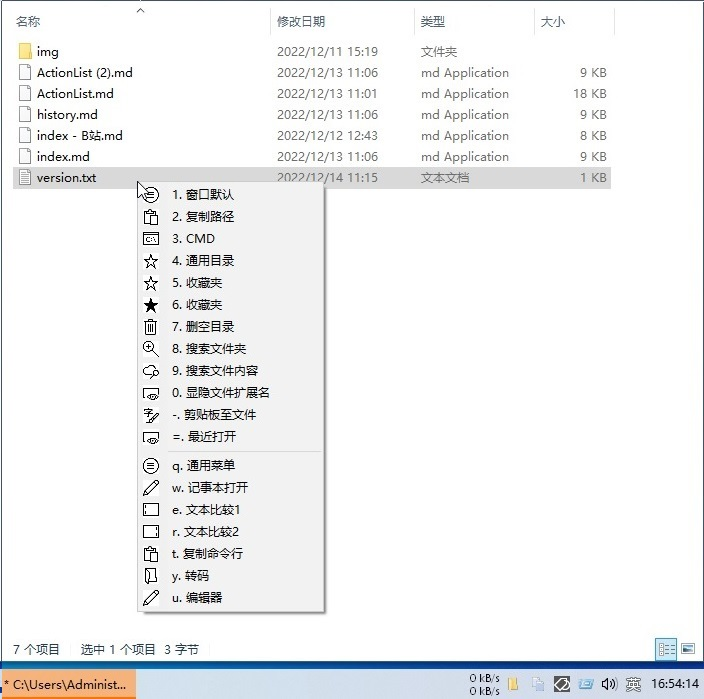
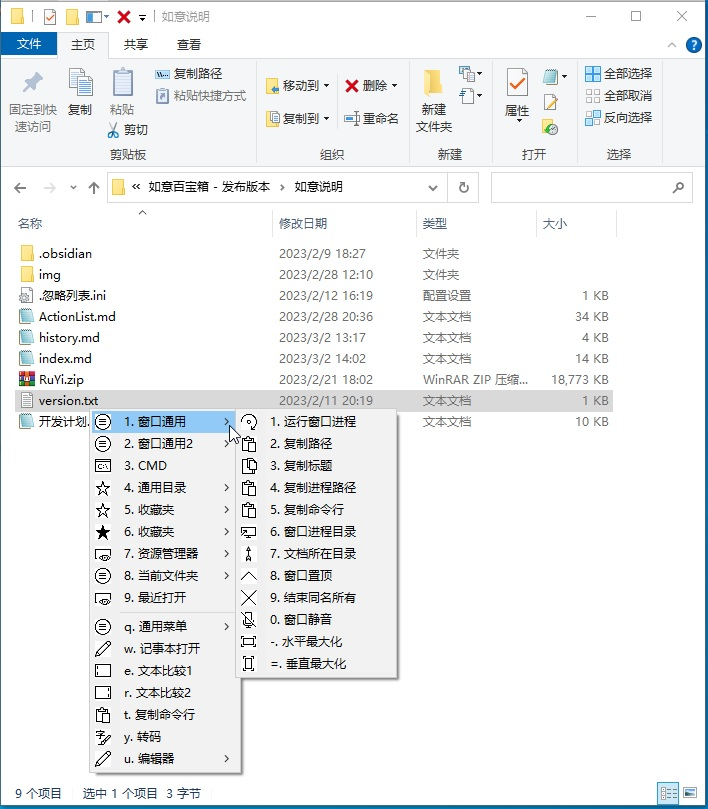
更新如意文档

Changed region(s): [[0.0, 0.0, 1.0, 1.0], [0.75, 0.0, 0.9062, 0.03]]

diff --git a/RuYi-Ahk/index.md b/RuYi-Ahk/index.md
@@ -1,4 +1,4 @@
----
+---
 layout: default
 ---
 
@@ -18,47 +18,47 @@ layout: default
 
 ### [](#header-3)功能介绍
 如意百宝箱受到类似软件 Quicker, Ahk 的 Windy 和 Candy 脚本的影响, 是一款由 AutoHotkey 脚本语言编写的快速启动软件. 打开 "如一.exe" 即启动了程序, 然后在不同的窗口按下鼠标中键即可显示定制的动作面板, 也可以使用鼠标手势 "上右" 来显示主面板. 欢迎大家试用, 非常渴望倾听您的声音。欢迎您的任何意见、建议、疑问、吐槽，或者鼓励。  
-  
-- <span id="hotkey">**快捷键**</span>
-  - Mbutton 默认的快捷键是鼠标中键, 可以右键托盘菜单的热键管理菜单自定义为其他按键. 按下后显示一个动作主面板, 主面板由上面的 12 个按钮(针对当前窗口)和下面的 12 个按钮(针对选中的文字, 或文件, 由 Ctrl+C 获取) 组成, 其中每个按钮执行一个指定的动作.  
-  - 鼠标手势 默认的鼠标手势"上右"来显示主面板, 可以在配置文件 "如一.ini" 中修改为其他.  
-    - 下图是主面板图片  
-    ![Image text](../img/主面板.jpg)  
 
-  - Ctrl + 1, 将面板模式转换为菜单模式, 按下后显示为菜单, 这在针对当前窗口操作时容易获取到当前窗口.  可以右键托盘菜单的热键管理菜单自定义为其他按键.  
-  ![Image text](../img/菜单模式.jpg)
+#### <a id="hotkey">快捷键</a>
+- Mbutton 默认的快捷键是鼠标中键, 可以右键托盘菜单的热键管理菜单自定义为其他按键. 按下后显示一个动作主面板, 主面板由上面的 12 个按钮(针对当前窗口)和下面的 12 个按钮(针对选中的文字, 或文件, 由 Ctrl+C 获取) 组成, 其中每个按钮执行一个指定的动作.  
+- 鼠标手势 默认的鼠标手势"上右"来显示主面板, 可以在配置文件 "如一.ini" 中修改为其他.  
+  - 下图是主面板图片  
+  ![Image text](img/主面板.jpg)  
 
-  - CapLocks 热键为不可更改的固定热键. 按下后将面板界面转为纯按键模式, 工具提示中的每个按键(0-9,q-])执行一个动作.  
-  ![Image text](../img/按键模式.jpg)  
+- Ctrl + 1, 将面板模式转换为菜单模式, 按下后显示为菜单, 这在针对当前窗口操作时容易获取到当前窗口.  可以右键托盘菜单的热键管理菜单自定义为其他按键.  
+![Image text](img/菜单模式.jpg)
 
-- <span id="Board"><b>面板</b></span>
+- CapLocks 热键为不可更改的固定热键. 按下后将面板界面转为纯按键模式, 工具提示中的每个按键(0-9,q-])执行一个动作.  
+![Image text](img/按键模式.jpg)  
+
+#### <span id="Board">面板</span>  
   - 面板的设置保存在 "配置文件/面板列表.ini" 文件中. 面板分为三种类型: 窗口进程名和Class(如资源管理器的 [explorer] [CabinetWClass], [Progman]), 文件扩展名后缀(如 txt, 短文本, 文件夹)和自定义名称. 前两种会根据优先级自动显示在主面板界面(按下热键后根据窗口类名和选中内容自动匹配), 后者多用于子面板(由主面板上的按钮来启动).  
-  .1 主面板上部面板顺序(优先级): 进程名 > 窗口 Class > 窗口默认  
-  .2 主面板下部面板顺序: 选中文件扩展名 > 文件默认 > 无选中  
-  .3 选中文件扩展名包含的种类: 盘符, 文件夹, 多文件, 选中文件扩展名(如 txt), 短文本, 长文本
+    .1 主面板上部面板顺序(优先级): 进程名 > 窗口 Class > 窗口默认  
+    .2 主面板下部面板顺序: 选中文件扩展名 > 文件默认 > 无选中  
+    .3 选中文件扩展名包含的种类: 盘符, 文件夹, 多文件, 选中文件扩展名(如 txt), 短文本, 长文本
   - 下图为面板中的按钮编辑菜单, 可以左右移动位置和删除.  
-  ![Image text](../img/面板按钮编辑.jpg)  
+    ![Image text](img/面板按钮编辑.jpg)  
 
   - 下图为面板中的按钮编辑界面, 指定按钮的要执行动作的编号.  
-  ![Image text](../img/按钮编辑.jpg)  
+    ![Image text](img/按钮编辑.jpg)  
 
-- **<span id="Action">动作</span>**  
+#### <a  id="Action">动作</a>  
   - 动作的的设置保存在 "配置文件/动作列表.ini" 文件中. 动作有以下类别: 运行(Run), 面板(Gui), 菜单(Menu), 发送按键(Key), 内置命令和函数(Cando 和 CanFunc) 等. 面板上的按钮对应一个动作, 点击面板上的按钮就会执行相应的动作.  
      - 运行: 运行程序, 打开文件(文件夹, 网址). 如打开C盘写为 "Run&#124;C:", 打开记事本写为 "Run&#124;notepad.exe". 要运行的外部 Ahk 脚本统一放在 "外部脚本" 目录.  
      - 面板: 在主面板上点击按钮后, 显示一个子面板. 动作写作 "Gui&#124;常用工具"  
      - 菜单: 在主面板上点击按钮后, 显示一个子面板中按钮的菜单. 动作写作 "Menu&#124;常用工具"  
      - 内置命令和函数: 执行内置的 ahk 脚本标签和函数.  
   -  [完整的内置动作列表](ActionList.md)  
-  - 动作的管理由托盘菜单的 "动作管理" 和面板按钮编辑界面的 转到动作编辑 按钮来启动.   
-  动作管理界面可以编辑动作, 例如修改动作的图标, 名称, 针对的对象, 热键, 鼠标手势, 说明文本, 动作的命令. 也可以在这里创建新的动作(自定义动作编号 >5000).  
-  版本[1.5]  
-  .1 新增 动作的单独热键, 如 "^!a", 表示 Ctrl + Alt + a 热键  
-  .2 新增 动作的单独鼠标手势, 如 "左", 表示按下鼠标右键想左拖, 默认配置是将窗口放到左半屏幕.  
-  .3 默认配置中  鼠标手势 "上右"  打开主界面, 可以在配置文件 "如一.ini" 中修改, 也可以整体关闭鼠标手势.  
-  ![Image text](../img/动作管理.jpg)
+  - 动作的管理由托盘菜单的 "动作管理" 和面板按钮编辑界面的 "转到动作编辑" 按钮来启动.   
+    动作管理界面可以编辑动作, 例如修改动作的图标, 名称, 针对的对象, 热键, 鼠标手势, 说明文本, 动作的命令. 也可以在这里创建新的动作(自定义动作编号 > 5000).  
+        ![Image text](img/动作管理.jpg)
+  -  版本[1.5]  
+     -  .1 新增 动作可以设置单独的热键, 如 "^!a", 表示 Ctrl + Alt + a 热键  
+     -  .2 新增 动作可以设置单独的鼠标手势, 如 "左", 表示按下鼠标右键向左拖, 默认配置是将窗口放到左半屏幕.  
+     - .3 默认配置中 鼠标手势 "上右"  打开主界面, 可以在配置文件 "如一.ini" 中修改, 也可以整体关闭鼠标手势.  
 
-- **<span id="Script">外部脚本</span>**
-  - 许多动作是由外部的 ahk 脚本来完成的, 它们统一放在 "外部脚本" 目录. 现在内置的外部动作脚本有 84 个.  
+#### <a id="Script">外部脚本</a>
+  - 许多动作是由外部的 ahk 脚本来完成的, 它们统一放在 "外部脚本" 目录. 现在内置的外部动作脚本有 85 个.  
     下面列出了内置的外部脚本动作, 第二列为外部动作脚本是否集成在 AnyToAhk.exe(ATA) 中.  
 
 | 动作编号 | ATA内置 | 按钮名称 | 动作对象 | 描述 |
@@ -109,8 +109,8 @@ layout: default
 |1107|是|品质压缩|选中文件|将选中的图形文件品质缩小50%|
 |1108|是|移动到Music|选中文件|移动选中的文件到动作中指定的目录|
 |1109|是|发送到打开的|选中文件|复制/移动选中文件到当前打开的目录|
-|1110|是|搜索帮助|选中文本|打开ahk中文帮助文件并跳转到选中的文本|
-|1111|是|搜索v2帮助|选中文本|打开ahkv2中文帮助文件并跳转到选中的文本|
+|1110|是|搜索帮助|选中文本|打开 ahk 中文帮助文件并跳转到选中的文本|
+|1111|是|搜索v2帮助|选中文本|打开 ahkv2 中文帮助文件并跳转到选中的文本|
 |1112|是|有道翻译|选中文本|使用有道翻译选中的文本|
 |1115|是|显示隐藏|无条件|资源管理器显示隐藏文件|
 |1116|是|隐藏文件|无条件|资源管理器隐藏文件|
@@ -159,10 +159,11 @@ layout: default
 |1212|是|Ini_Fav|选中文件|Ini 文件式的收藏夹菜单|
 |1213|是|Ini_Opw|选中文件|Ini 文件式的程序菜单, 使用菜单中的程序打开选中的文件|
 |1214|是|百度搜索|选中文件|百度搜索选中文件的文件名|
-|1217|是|到手机|无条件|同步电脑文件夹到手机文件夹(参数指定文件夹)
-|1219|是|到手机|选中文件|发送电脑选中文件到手机的根目录
-|1220|是|放入剪贴板|选中文件|将选中的文本文件内容放入剪贴板
-|1222|否|360收藏夹|无条件|将360浏览器的收藏夹显示为菜单
-|1223|是|Chrome收藏夹|无条件|将Chrome浏览器的收藏夹显示为菜单
-|1224|是|Edge收藏夹|无条件|将Edge浏览器的收藏夹显示为菜单
-|1225|否|文件库搜索|选中文件|使用文件名搜索文件库中的文件
+|1217|是|到手机|无条件|同步电脑文件夹到手机文件夹(参数指定文件夹)|
+|1219|是|到手机|选中文件|发送电脑选中文件到手机的根目录|
+|1220|是|放入剪贴板|选中文件|将选中的文本文件内容放入剪贴板|
+|1222|否|360收藏夹|无条件|将 360 浏览器的收藏夹显示为菜单|
+|1223|是|Chrome收藏夹|无条件|将 Chrome 浏览器的收藏夹显示为菜单|
+|1224|是|Edge收藏夹|无条件|将 Edge 浏览器的收藏夹显示为菜单|
+|1225|否|文件库搜索|选中文件|使用文件名搜索文件库中的文件|
+|1226|是|打开的|对话框|显示一个现在打开的文件夹的菜单对话框跳转到选择的项目|

diff --git a/RuYi-Ahk/history.md b/RuYi-Ahk/history.md
@@ -12,14 +12,16 @@ layout: default
 ### [](#header-3) 1.6  2023/03/_  
 1. 按键模式文字对齐  
 2. 面板管理新增重命名和复制功能  
-3. 新增 外部脚本  
-.1 360浏览器收藏夹.ahk  
+3. 菜单模式支持一级的子菜单, 将动作中的gui, menu转化为子菜单(只有一层)
+4. 新增 外部脚本  
+.1 360浏览器收藏夹.ahk  显示浏览器收藏夹为菜单, 菜单项目数量限制为20个  
 .2 Chrome收藏夹.ahk  
 .3 MsEdge收藏夹.ahk  
-.4 发送文件到手机目录.ahk  
+.4 发送文件到手机目录.ahk  使用adb发送文件到手机  
 .5 同步文件夹到手机.ahk  
-.6 数据库_文件库中搜索文件.ahk  
+.6 数据库_文件库中搜索文件.ahk  为脚本预设的文件夹建立db数据库, 一键搜索选中文件名  
 .7 文本文件内容放入剪贴板.ahk  
+.8 对话框.ahk 显示一个当前打开的文件夹的右键菜单, 以便跳转  
 
 ### [](#header-3) 1.5  2023/02/21  
 1.  新增 指定单独的热键来打开动作  
